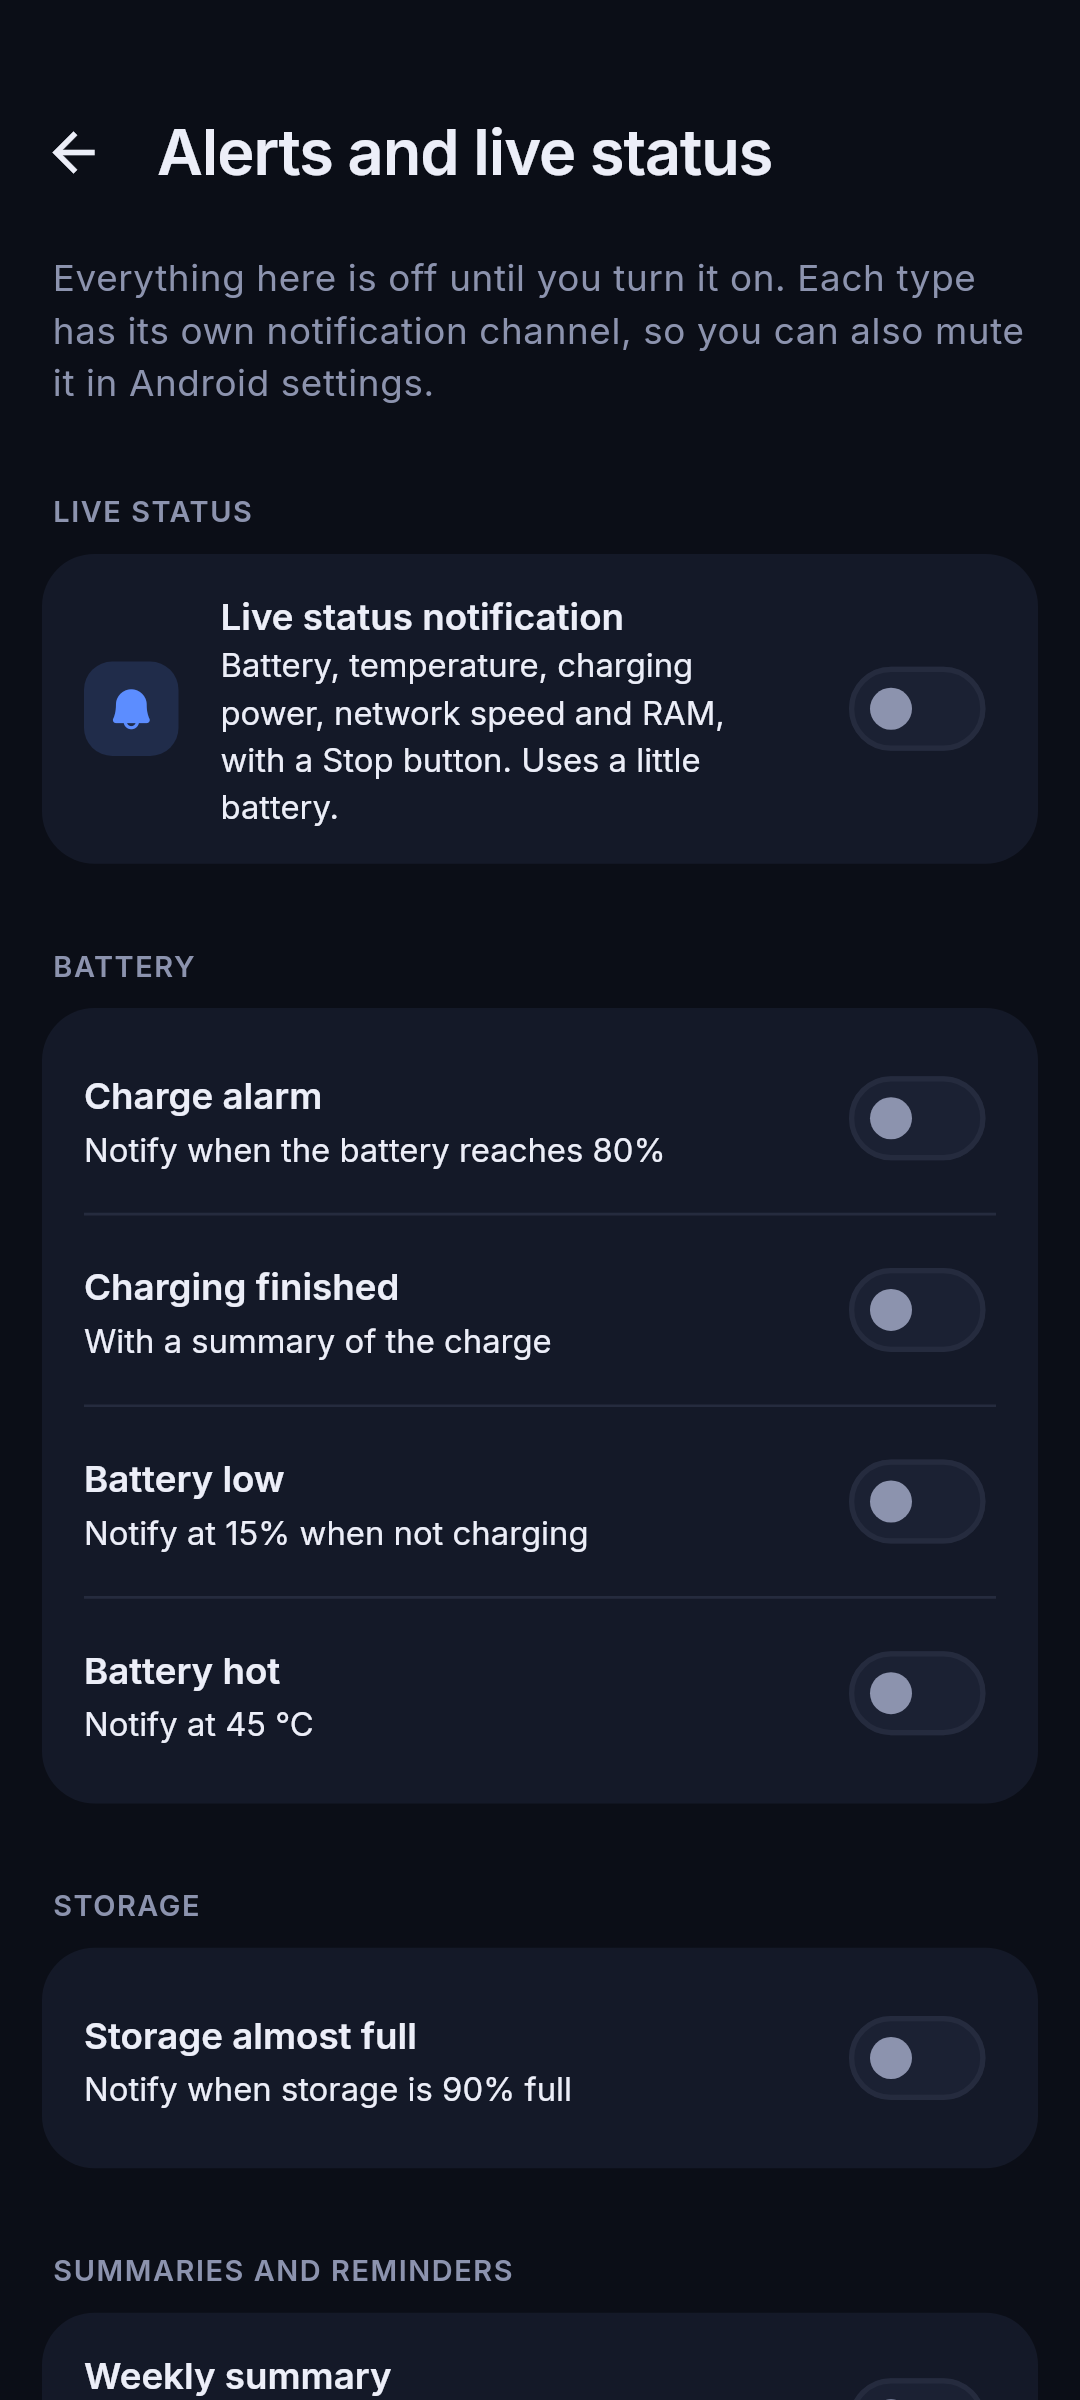
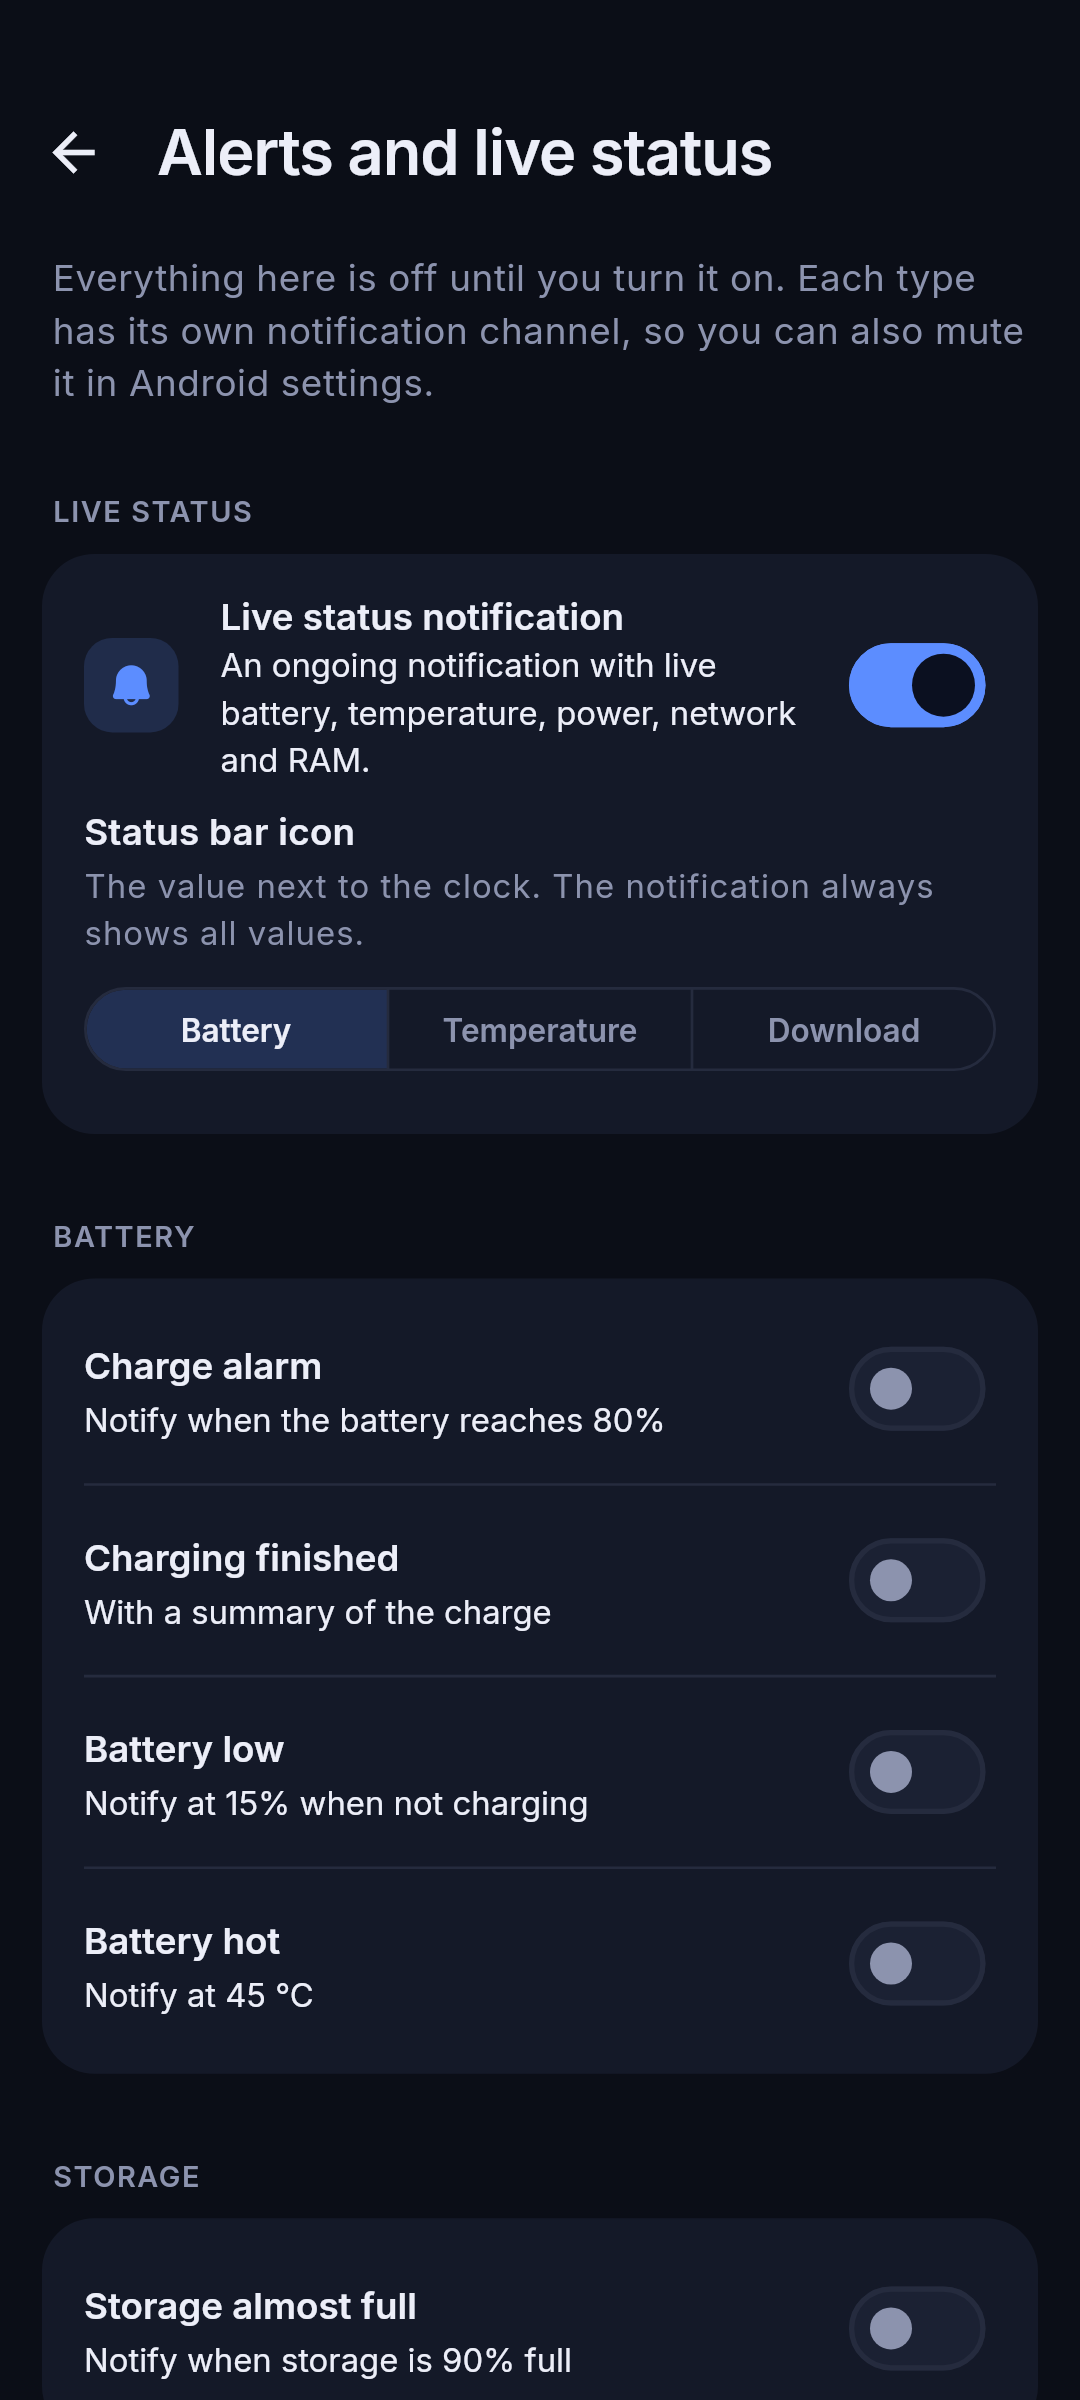
Live Status: equal number sizes in the status bar, steady settings card
- Status bar icon: battery and temperature numbers use the same size as
  the network speed number, with the unit small beside them (63%,
  33°C); network speed keeps its unit underneath.
- Settings: the status bar choice is a full-width segmented control
  that never re-wraps, titled 'Status bar icon' with a note that the
  notification always shows every value; shorter Live status text.
- Drain per hour: marked 'low confidence' under 3 hours of data, and
  the note says it is an estimate, not a battery-life prediction.

Claude-Session: https://claude.ai/code/session_01HzGgrf8mJzWqPVbmwGG37y

diff --git a/systemx/android/app/src/main/kotlin/com/systemx/app/background/LiveStatusService.kt b/systemx/android/app/src/main/kotlin/com/systemx/app/background/LiveStatusService.kt
@@ -134,7 +134,7 @@ class LiveStatusService : Service() {
         )
         val (value, unit) = AlertRules.statusIconLines(c.statusIcon, r.level, r.tempC, c.fahrenheit, down)
         return Notification.Builder(this, Notifications.LIVE)
-            .setSmallIcon(textIcon(value, unit))
+            .setSmallIcon(textIcon(value, unit, AlertRules.unitBelow(c.statusIcon)))
             // Plain text for places that don't show custom layouts (lock
             // screen in some modes, accessibility, wearables).
             .setContentTitle(getString(R.string.live_battery, r.level) + " · " + batteryLabel)
@@ -168,32 +168,41 @@ class LiveStatusService : Service() {
     }
 
     /**
-     * White on transparent, as Android requires for status bar icons. One
-     * line for battery values; for network speed the number sits on top and
-     * its unit underneath, so "0" never reads as the letter O.
+     * White on transparent, as Android requires for status bar icons. The
+     * number is drawn at the same size for every option; battery values
+     * put the unit small beside it ("63%"), network speed underneath it
+     * ("0" over "KB/s") so the number never reads as a letter.
      */
-    private fun textIcon(value: String, unit: String): Icon {
+    private fun textIcon(value: String, unit: String, unitBelow: Boolean): Icon {
         val size = 96
         val bmp = Bitmap.createBitmap(size, size, Bitmap.Config.ARGB_8888)
         val canvas = Canvas(bmp)
-        fun paint(textSize: Float) = Paint(Paint.ANTI_ALIAS_FLAG).apply {
+        fun paint(textSize: Float, align: Paint.Align) = Paint(Paint.ANTI_ALIAS_FLAG).apply {
             color = Color.WHITE
-            textAlign = Paint.Align.CENTER
+            textAlign = align
             typeface = Typeface.create(Typeface.DEFAULT, Typeface.BOLD)
             this.textSize = textSize
         }
-        if (unit.isEmpty()) {
-            val p = paint(64f)
-            while (p.measureText(value) > size - 2 && p.textSize > 20f) p.textSize -= 2f
-            val y = size / 2f - (p.descent() + p.ascent()) / 2
-            canvas.drawText(value, size / 2f, y, p)
-        } else {
-            val top = paint(60f)
+        if (unitBelow) {
+            val top = paint(60f, Paint.Align.CENTER)
             while (top.measureText(value) > size - 2 && top.textSize > 24f) top.textSize -= 2f
-            val bottom = paint(34f)
+            val bottom = paint(34f, Paint.Align.CENTER)
             while (bottom.measureText(unit) > size - 2 && bottom.textSize > 16f) bottom.textSize -= 2f
             canvas.drawText(value, size / 2f, size * 0.56f, top)
             canvas.drawText(unit, size / 2f, size * 0.94f, bottom)
+        } else {
+            val num = paint(60f, Paint.Align.LEFT)
+            val small = paint(34f, Paint.Align.LEFT)
+            // Shrink both together until number and unit fit side by side.
+            while (num.measureText(value) + small.measureText(unit) > size - 2 && num.textSize > 24f) {
+                num.textSize -= 2f
+                small.textSize = num.textSize * 0.57f
+            }
+            val total = num.measureText(value) + small.measureText(unit)
+            val x = (size - total) / 2f
+            val baseline = size / 2f - (num.descent() + num.ascent()) / 2
+            canvas.drawText(value, x, baseline, num)
+            canvas.drawText(unit, x + num.measureText(value), baseline, small)
         }
         return Icon.createWithBitmap(bmp)
     }

diff --git a/systemx/lib/features/background/alerts_screen.dart b/systemx/lib/features/background/alerts_screen.dart
@@ -72,6 +72,7 @@ class AlertsScreen extends ConsumerWidget {
                   if (c.liveStatus)
                     _Chips<String>(
                       title: l.statusBarShows,
+                      note: l.statusBarShowsNote,
                       value: c.statusIcon,
                       options: {
                         'battery_level': l.metricBattery,
@@ -192,34 +193,47 @@ class AlertsScreen extends ConsumerWidget {
   }
 }
 
+/// A labelled single choice. Segments share the width equally and never
+/// re-wrap when the selection changes, so the card stays steady.
 class _Chips<T> extends StatelessWidget {
   const _Chips({
     required this.title,
     required this.value,
     required this.options,
     required this.onChanged,
+    this.note,
   });
 
   final String title;
   final T value;
   final Map<T, String> options;
   final ValueChanged<T> onChanged;
+  final String? note;
 
   @override
   Widget build(BuildContext context) {
     return Padding(
-      padding: const EdgeInsets.fromLTRB(16, 0, 16, 12),
-      child: Column(crossAxisAlignment: CrossAxisAlignment.start, children: [
-        Text(title, style: context.text.bodySmall),
-        const SizedBox(height: 6),
-        Wrap(spacing: 8, runSpacing: 8, children: [
-          for (final MapEntry(:key, value: label) in options.entries)
-            ChoiceChip(
-              label: Text(label),
-              selected: key == value,
-              onSelected: (_) => onChanged(key),
-            ),
-        ]),
+      padding: const EdgeInsets.fromLTRB(16, 4, 16, 14),
+      child: Column(crossAxisAlignment: CrossAxisAlignment.stretch, children: [
+        Text(title, style: context.text.labelLarge),
+        if (note != null) ...[
+          const SizedBox(height: 2),
+          Text(note!, style: context.text.bodySmall),
+        ],
+        const SizedBox(height: 8),
+        SegmentedButton<T>(
+          showSelectedIcon: false,
+          style: const ButtonStyle(visualDensity: VisualDensity.compact),
+          segments: [
+            for (final MapEntry(:key, value: label) in options.entries)
+              ButtonSegment(
+                value: key,
+                label: FittedBox(fit: BoxFit.scaleDown, child: Text(label, maxLines: 1)),
+              ),
+          ],
+          selected: {value},
+          onSelectionChanged: (v) => onChanged(v.first),
+        ),
       ]),
     );
   }

diff --git a/systemx/lib/l10n/app_localizations_bn.dart b/systemx/lib/l10n/app_localizations_bn.dart
@@ -2303,10 +2303,10 @@ class AppLocalizationsBn extends AppLocalizations {
 
   @override
   String get liveStatusSub =>
-      'ব্যাটারি, তাপমাত্রা, চার্জিং পাওয়ার, নেটওয়ার্ক স্পিড আর RAM, সাথে থামানোর বোতাম। সামান্য ব্যাটারি খরচ হয়।';
+      'লাইভ ব্যাটারি, তাপমাত্রা, পাওয়ার, নেটওয়ার্ক আর RAM সহ একটি চলমান নোটিফিকেশন।';
 
   @override
-  String get statusBarShows => 'স্ট্যাটাস বারে দেখাবে';
+  String get statusBarShows => 'স্ট্যাটাস বারের আইকন';
 
   @override
   String get chargeAlarm => 'চার্জ অ্যালার্ম';
@@ -2695,7 +2695,7 @@ class AppLocalizationsBn extends AppLocalizations {
 
   @override
   String get bhDrainNote =>
-      'SystemX ব্যাকগ্রাউন্ডে রিডিং নিলে রেকর্ড হয়। লাইভ স্ট্যাটাস চালু থাকলে রিডিং ঘন ঘন হয় আর হিসাব বেশি নির্ভুল হয়।';
+      'SystemX-এর ব্যাকগ্রাউন্ড রিডিং থেকে অনুমান, বাকি ব্যাটারি কতক্ষণ চলবে তার পূর্বাভাস নয়। প্রতিটিতে ৩+ ঘণ্টার তথ্য হলে বেশি নির্ভরযোগ্য হয়; লাইভ স্ট্যাটাস চালু থাকলে রিডিং ঘন ঘন হয়।';
 
   @override
   String get bhHow =>
@@ -3440,4 +3440,11 @@ class AppLocalizationsBn extends AppLocalizations {
 
   @override
   String get csAvgCurrent => 'গড় কারেন্ট';
+
+  @override
+  String get statusBarShowsNote =>
+      'ঘড়ির পাশের মান। নোটিফিকেশনে সবসময় সব মান দেখা যায়।';
+
+  @override
+  String get bhLowConfidence => 'নির্ভরযোগ্যতা কম';
 }

diff --git a/systemx/lib/l10n/app_localizations.dart b/systemx/lib/l10n/app_localizations.dart
@@ -4295,13 +4295,13 @@ abstract class AppLocalizations {
   /// No description provided for @liveStatusSub.
   ///
   /// In en, this message translates to:
-  /// **'Battery, temperature, charging power, network speed and RAM, with a Stop button. Uses a little battery.'**
+  /// **'An ongoing notification with live battery, temperature, power, network and RAM.'**
   String get liveStatusSub;
 
   /// No description provided for @statusBarShows.
   ///
   /// In en, this message translates to:
-  /// **'Status bar shows'**
+  /// **'Status bar icon'**
   String get statusBarShows;
 
   /// No description provided for @chargeAlarm.
@@ -4973,7 +4973,7 @@ abstract class AppLocalizations {
   /// No description provided for @bhDrainNote.
   ///
   /// In en, this message translates to:
-  /// **'Recorded when SystemX takes a reading in the background. With Live status on, readings are frequent and the numbers are more accurate.'**
+  /// **'Estimates from SystemX\'s background readings, not a prediction of remaining battery life. They become more reliable after 3+ hours of each; with Live status on, readings are more frequent.'**
   String get bhDrainNote;
 
   /// No description provided for @bhHow.
@@ -6217,6 +6217,18 @@ abstract class AppLocalizations {
   /// In en, this message translates to:
   /// **'Average current'**
   String get csAvgCurrent;
+
+  /// No description provided for @statusBarShowsNote.
+  ///
+  /// In en, this message translates to:
+  /// **'The value next to the clock. The notification always shows all values.'**
+  String get statusBarShowsNote;
+
+  /// No description provided for @bhLowConfidence.
+  ///
+  /// In en, this message translates to:
+  /// **'low confidence'**
+  String get bhLowConfidence;
 }
 
 class _AppLocalizationsDelegate

diff --git a/systemx/lib/l10n/app_localizations_en.dart b/systemx/lib/l10n/app_localizations_en.dart
@@ -2318,10 +2318,10 @@ class AppLocalizationsEn extends AppLocalizations {
 
   @override
   String get liveStatusSub =>
-      'Battery, temperature, charging power, network speed and RAM, with a Stop button. Uses a little battery.';
+      'An ongoing notification with live battery, temperature, power, network and RAM.';
 
   @override
-  String get statusBarShows => 'Status bar shows';
+  String get statusBarShows => 'Status bar icon';
 
   @override
   String get chargeAlarm => 'Charge alarm';
@@ -2713,7 +2713,7 @@ class AppLocalizationsEn extends AppLocalizations {
 
   @override
   String get bhDrainNote =>
-      'Recorded when SystemX takes a reading in the background. With Live status on, readings are frequent and the numbers are more accurate.';
+      'Estimates from SystemX\'s background readings, not a prediction of remaining battery life. They become more reliable after 3+ hours of each; with Live status on, readings are more frequent.';
 
   @override
   String get bhHow =>
@@ -3466,4 +3466,11 @@ class AppLocalizationsEn extends AppLocalizations {
 
   @override
   String get csAvgCurrent => 'Average current';
+
+  @override
+  String get statusBarShowsNote =>
+      'The value next to the clock. The notification always shows all values.';
+
+  @override
+  String get bhLowConfidence => 'low confidence';
 }

diff --git a/systemx/android/app/src/main/kotlin/com/systemx/app/platform/AlertRules.kt b/systemx/android/app/src/main/kotlin/com/systemx/app/platform/AlertRules.kt
@@ -39,16 +39,18 @@ internal object AlertRules {
 
     /**
      * Status bar icon for [kind] ("battery_level", "battery_temp" or
-     * "net_speed"). Battery values fit on one line ("63%", "33°C"); network
-     * speed puts its unit on a second line, with an empty second part
-     * meaning a single line.
+     * "net_speed") as a number and its unit. Battery values put the unit
+     * beside the number ("63" "%"); network speed puts it underneath
+     * ([unitBelow]) so "0" never reads as the letter O.
      */
     fun statusIconLines(kind: String, level: Int, tempC: Double, fahrenheit: Boolean, downBps: Double): Pair<String, String> =
         when (kind) {
-            "battery_temp" -> "${(if (fahrenheit) toF(tempC) else tempC).roundToInt()}°${if (fahrenheit) "F" else "C"}" to ""
+            "battery_temp" -> "${(if (fahrenheit) toF(tempC) else tempC).roundToInt()}" to (if (fahrenheit) "°F" else "°C")
             "net_speed" -> rateParts(downBps)
-            else -> "$level%" to ""
+            else -> "$level" to "%"
         }
+
+    fun unitBelow(kind: String) = kind == "net_speed"
 
     /** Bytes per second between two counter readings, 0 on reset or missing data. */
     fun byteRate(prev: Long, now: Long, prevMs: Long, nowMs: Long): Double =

diff --git a/systemx/android/app/src/test/kotlin/com/systemx/app/platform/AlertRulesTest.kt b/systemx/android/app/src/test/kotlin/com/systemx/app/platform/AlertRulesTest.kt
@@ -37,9 +37,11 @@ class AlertRulesTest {
 
     @Test
     fun statusIconShowsValueAndUnit() {
-        assertEquals("78%" to "", AlertRules.statusIconLines("battery_level", 78, 33.4, false, 0.0))
-        assertEquals("33°C" to "", AlertRules.statusIconLines("battery_temp", 78, 33.4, false, 0.0))
-        assertEquals("92°F" to "", AlertRules.statusIconLines("battery_temp", 78, 33.4, true, 0.0))
+        assertEquals("78" to "%", AlertRules.statusIconLines("battery_level", 78, 33.4, false, 0.0))
+        assertEquals("33" to "°C", AlertRules.statusIconLines("battery_temp", 78, 33.4, false, 0.0))
+        assertEquals("92" to "°F", AlertRules.statusIconLines("battery_temp", 78, 33.4, true, 0.0))
+        assertFalse(AlertRules.unitBelow("battery_level"))
+        assertTrue(AlertRules.unitBelow("net_speed"))
         assertEquals("2.4" to "MB/s", AlertRules.statusIconLines("net_speed", 78, 33.4, false, 2_400_000.0))
         assertEquals("850" to "KB/s", AlertRules.rateParts(850_000.0))
         assertEquals("0" to "KB/s", AlertRules.rateParts(10.0))

diff --git a/systemx/screenshots/screens_test.dart b/systemx/screenshots/screens_test.dart
@@ -196,7 +196,9 @@ void main() {
     await _shoot(tester, '18_report', Routes.report(0));
     await _shoot(tester, '19_test_multitouch', Routes.runTest(HwTest.multiTouch));
     await _shoot(tester, '20_checkup_intro', Routes.checkup);
-    await _shoot(tester, '21_alerts', Routes.alerts);
+    final live = FakeBackgroundApi();
+    live.config = copyConfig(live.config, liveStatus: true);
+    await _shoot(tester, '21_alerts', Routes.alerts, background: live);
     await _shoot(tester, '22_sessions', Routes.sessions);
     await _shoot(tester, '23_wifi_meter', Routes.wifiMeter);
     await _shoot(tester, '24_home_bangla', Routes.home, locale: 'bn');

diff --git a/systemx/lib/features/background/battery_health.dart b/systemx/lib/features/background/battery_health.dart
@@ -422,7 +422,13 @@ class _Rate extends StatelessWidget {
           style: rate == null ? context.text.bodyMedium : context.text.titleMedium,
         ),
         const SizedBox(height: 2),
-        Text(l.bhHours(formatDouble(hours)), style: context.text.bodySmall),
+        Text(
+          [
+            l.bhHours(formatDouble(hours)),
+            if (rate != null && hours < 3) l.bhLowConfidence,
+          ].join(' · '),
+          style: context.text.bodySmall,
+        ),
       ]),
     );
   }
